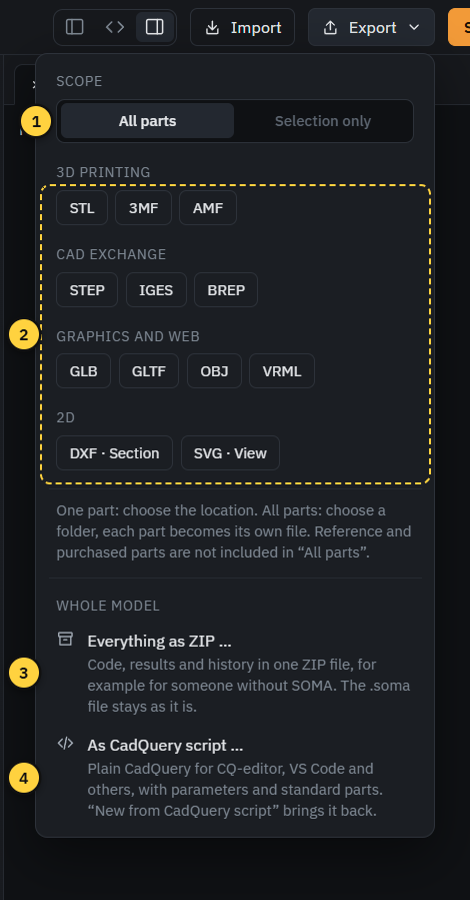
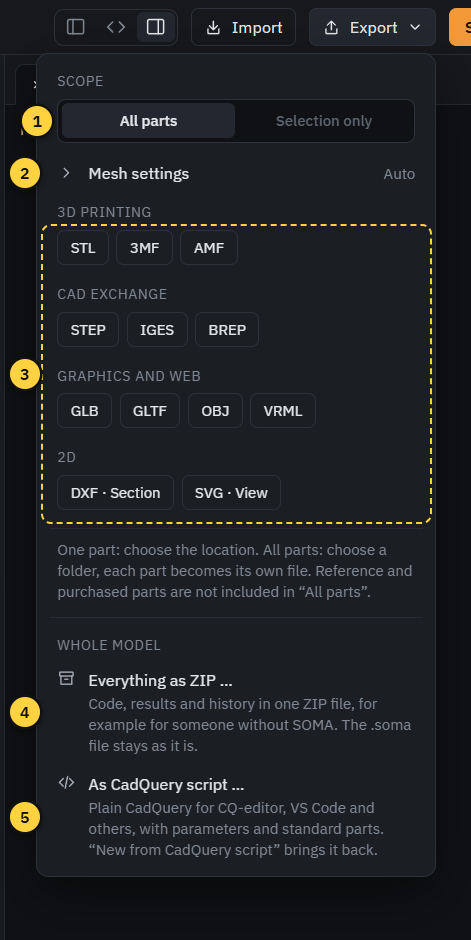
App: Netz-Einstellungen im Export-Menü, Warnungen des Exports anzeigen
Zugeklappte Zeile „Mesh settings“ mit Einheit, Achse und Detailstufe,
gemerkt im Fenster. Die warning-Zeilen von soma export erscheinen jetzt
in der Meldung nach dem Export. Hilfe, Vorlage AGENTS.md und Tests.

diff --git a/app/src/renderer/main.ts b/app/src/renderer/main.ts
@@ -1,6 +1,6 @@
 import { affectsBuild } from '../shared/editable';
 import { DEFAULT_SETTINGS, type SettingsPatch, type SettingsResult, type SettingsState } from '../shared/settings';
-import type { AgentInfo, AnimEntry, BuildStatus, CadQueryImportResult, DrawingEntry, DrawingList, ExportResult, FileNode, ImportResult, ModelMap, PartMap, PreviewResult, ProjectInfo, ProjectListEntry, ResultEntry, SaveState, UpdateInfo } from '../shared/types';
+import type { AgentInfo, AnimEntry, BuildStatus, CadQueryImportResult, DrawingEntry, DrawingList, ExportResult, FileNode, ImportResult, MeshExportOptions, ModelMap, PartMap, PreviewResult, ProjectInfo, ProjectListEntry, ResultEntry, SaveState, UpdateInfo } from '../shared/types';
 import { AnalysisPanel } from './analysispanel';
 import { AnimPanel, animKey, videoKey } from './animpanel';
 import { SOMA_VERSION } from '../shared/version';
@@ -1478,6 +1478,7 @@ function renderExportScope(): void {
 function openExportMenu(anchor: HTMLElement = $('btn-export')): void {
   renderExportScope();
   const m = $('menu-export');
+  if (!menus.isOpen(m)) setMeshOptsOpen(false);
   if (!menus.isOpen(m)) menus.toggle(m, anchor, anchor.id === 'btn-export' ? 'right' : 'left');
 }
 $('btn-export').addEventListener('click', () => {
@@ -1490,6 +1491,51 @@ $('btn-sel-export').addEventListener('click', () => {
   exportScope = 'sel';
   openExportMenu($('btn-sel-export'));
 });
+// Netz-Einstellungen (Issue #8): gemerkt in diesem Fenster, leer heißt die Vorgabe des Formats in `soma export`
+const MESH_OPTS_KEY = 'soma.exportMesh';
+let meshOpts: MeshExportOptions = (() => {
+  try {
+    const o = JSON.parse(store.get(MESH_OPTS_KEY) ?? '{}') as Record<string, unknown>;
+    return {
+      ...(o.units === 'mm' || o.units === 'm' ? { units: o.units } : {}),
+      ...(o.up === 'z' || o.up === 'y' ? { up: o.up } : {}),
+      ...(o.detail === 'coarse' || o.detail === 'fine' ? { detail: o.detail } : {}),
+    };
+  } catch { return {}; }
+})();
+const MESH_SEGS: [string, keyof MeshExportOptions, string][] = [['exp-units', 'units', ''], ['exp-up', 'up', ''], ['exp-detail', 'detail', 'normal']];
+function renderMeshOpts(): void {
+  for (const [id, key, dflt] of MESH_SEGS) {
+    const cur = meshOpts[key] ?? dflt;
+    for (const b of $(id).querySelectorAll<HTMLButtonElement>('button')) {
+      b.classList.toggle('on', b.dataset.v === cur);
+      b.setAttribute('aria-pressed', String(b.dataset.v === cur));
+    }
+  }
+  // Zugeklappt zeigt die Zeile, was vom Normalfall abweicht, damit eine Einstellung von früher nicht übersehen wird
+  const { units, up, detail } = meshOpts;
+  const sum = [units, up && `${up.toUpperCase()} up`, detail && detail[0].toUpperCase() + detail.slice(1)].filter(Boolean).join(' · ');
+  $('exp-mesh-sum').textContent = sum || 'Auto';
+}
+/** Netz-Einstellungen auf- oder zuklappen. Normalerweise braucht man sie nicht, deshalb startet das Menü zugeklappt. */
+function setMeshOptsOpen(open: boolean): void {
+  $('exp-mesh').hidden = !open;
+  $('exp-mesh-toggle').setAttribute('aria-expanded', String(open));
+}
+$('exp-mesh-toggle').addEventListener('click', () => setMeshOptsOpen($('exp-mesh').hidden));
+for (const [id, key, dflt] of MESH_SEGS) {
+  $(id).addEventListener('click', (ev) => {
+    const b = (ev.target as HTMLElement).closest<HTMLButtonElement>('button[data-v]');
+    if (!b) return;
+    const v = b.dataset.v ?? '';
+    const next: Record<string, string> = { ...meshOpts };
+    if (v && v !== dflt) next[key] = v; else delete next[key];
+    meshOpts = next as MeshExportOptions;
+    store.set(MESH_OPTS_KEY, JSON.stringify(meshOpts));
+    renderMeshOpts();
+  });
+}
+renderMeshOpts();
 $('exp-all').addEventListener('click', () => { exportScope = 'all'; renderExportScope(); });
 $('exp-sel').addEventListener('click', () => { exportScope = 'sel'; renderExportScope(); });
 document.querySelectorAll<HTMLButtonElement>('#menu-export [data-fmt]').forEach((b) => b.addEventListener('click', () => void doExport(b.dataset.fmt!, b.textContent!)));
@@ -1528,11 +1574,13 @@ async function doExport(fmt: string, label: string): Promise<ExportResult> {
   menus.close();
   const e = selection ? partEntry(selection.partId) : undefined;
   const part = exportScope === 'sel' ? e?.name ?? partInfo(selection?.partId ?? '')?.name ?? null : null;
-  const r = await api.build.export(fmt, part);
+  const r = await api.build.export(fmt, part, meshOpts);
   if (r.cancelled) return r;
   const name = (f: string) => f.split(/[\\/]/).pop() ?? f;
-  if (r.ok && part) toast(`“${part}” exported as ${label}:\n${r.target ?? r.files[0] ?? ''}`);
-  else if (r.ok) toast(`${r.files.length} file${r.files.length === 1 ? '' : 's'} exported as ${label} to ${r.target ?? ''}:\n${r.files.map(name).join(', ') || '(no file)'}`);
+  // Hinweise von soma (Netz nicht geschlossen, welche Flächen) gehören dazu: Bericht statt stiller Reparatur (E28)
+  const warn = r.warnings?.length ? `\n${r.warnings.join('\n')}` : '';
+  if (r.ok && part) toast(`“${part}” exported as ${label}:\n${r.target ?? r.files[0] ?? ''}${warn}`, warn ? 'error' : 'ok');
+  else if (r.ok) toast(`${r.files.length} file${r.files.length === 1 ? '' : 's'} exported as ${label} to ${r.target ?? ''}:\n${r.files.map(name).join(', ') || '(no file)'}${warn}`, warn ? 'error' : 'ok');
   else toast(`Export failed: ${r.error}`, 'error');
   return r;
 }

diff --git a/app/src/main/projects.ts b/app/src/main/projects.ts
@@ -3,7 +3,7 @@ import fs from 'node:fs';
 import os from 'node:os';
 import path from 'node:path';
 import type {
-  AnimBuildResult, AnimList, CadQueryImportResult, DrawingBuildResult, DrawingList, ExportResult, FileViewResult, GitLog, MeasureEntity, MeasurePrepared, MeasureRequest, MeasureResponse, ModelMap, OpenResult, PreviewResult,
+  AnimBuildResult, AnimList, CadQueryImportResult, DrawingBuildResult, DrawingList, ExportResult, FileViewResult, MeshExportOptions, GitLog, MeasureEntity, MeasurePrepared, MeasureRequest, MeasureResponse, ModelMap, OpenResult, PreviewResult,
   ParamResult, ParamState, ParamValue, ProjectInfo, RemoveResult, RenderResult, RestoreResult, ResultEntry, SaveResult, SaveState, SkillInfo, SkillResult,
 } from '../shared/types';
 import { affectsAnimation } from '../shared/editable';
@@ -73,6 +73,18 @@ function lastJson<T>(out: string): T | null {
 }
 const safeFileName = (n: string) => n.replace(/[<>:"/\\|?*\x00-\x1f]/g, '_').trim() || 'Model';
 /** Modelle werden als .soma gespeichert (E79), innen eine ZIP. Geöffnet wird auch eine .zip. */
+/** Netzformate, für die `soma export` Einheit, Achse und Detailstufe kennt (Issue #8) */
+const MESH_EXPORT_FORMATS = ['stl', '3mf', 'amf', 'obj', 'glb', 'gltf'];
+/** Einstellungen aus dem Renderer als Argumente für `soma export`. Was nicht passt, fällt weg: Dann gilt die Vorgabe des Formats. */
+function meshExportArgs(mesh: unknown): string[] {
+  const o = (mesh && typeof mesh === 'object' ? mesh : {}) as MeshExportOptions;
+  const out: string[] = [];
+  if (o.units === 'mm' || o.units === 'm') out.push('--units', o.units);
+  if (o.up === 'z' || o.up === 'y') out.push('--up', o.up);
+  if (o.detail === 'coarse' || o.detail === 'normal' || o.detail === 'fine') out.push('--detail', o.detail);
+  return out;
+}
+
 const MODEL_EXT = '.soma';
 const isModelFile = (p: string) => p.toLowerCase().endsWith(MODEL_EXT);
 /** Pfad mit .soma: „x“ und „x.zip“ werden „x.soma“. */
@@ -355,9 +367,10 @@ export class ProjectController {
    * Zukaufteile) als je eine Datei in einen gewählten Ordner. soma schreibt in einen leeren Ordner unter Temp, die App
    * kopiert danach. So landet nichts in exports/ des Projekts, und eine vorhandene Datei wird nie ohne Rückfrage ersetzt.
    */
-  async exportModel(format: string, part: string | null): Promise<ExportResult> {
+  async exportModel(format: string, part: string | null, mesh?: unknown): Promise<ExportResult> {
     const s = this.need();
     if (!/^[a-z0-9]{2,5}$/.test(format)) return { ok: false, files: [], error: `Unknown format: ${format}` };
+    const meshArgs = MESH_EXPORT_FORMATS.includes(format) ? meshExportArgs(mesh) : [];
     const last = getAppState(s.id).exportDir;
     const startDir = last && fs.existsSync(last) ? last : documentsDir();
     const target = await chooseExportTarget(this.getWin(), part
@@ -368,7 +381,7 @@ export class ProjectController {
     try {
       tmp = fs.mkdtempSync(path.join(os.tmpdir(), 'soma-export-'));
       // `--` vor dem Namen: Bauteilnamen dürfen mit einem Minus beginnen, ohne als Option zu gelten
-      const args = ['export', '--format', format, '--project', s.dir, '--out', tmp, ...(part ? ['--', part] : ['--all'])];
+      const args = ['export', '--format', format, ...meshArgs, '--project', s.dir, '--out', tmp, ...(part ? ['--', part] : ['--all'])];
       const r = await runSoma(args, s.dir, 10 * 60 * 1000);
       if (!r.ok) {
         const msg = (r.err || r.out).trim().split(/\r?\n/).slice(-3).join('\n');
@@ -400,7 +413,9 @@ export class ProjectController {
       }
       const dest = part ? plan[0][1] : target;
       patchAppState(s.id, { exportDir: part ? path.dirname(dest) : target });
-      return { ok: true, files: plan.map(([, d]) => d), target: dest };
+      // Hinweise von soma (z. B. ein Netz, das nicht geschlossen ist, mit den betroffenen Flächen) an den Benutzer weitergeben
+      const warnings = r.out.split(/\r?\n/).filter((l) => l.startsWith('warning: ')).map((l) => l.slice(9).trim());
+      return { ok: true, files: plan.map(([, d]) => d), target: dest, ...(warnings.length ? { warnings } : {}) };
     } catch (e) {
       return { ok: false, files: [], error: `Export failed: ${e instanceof Error ? e.message : String(e)}` };
     } finally {

diff --git a/app/src/renderer/index.html b/app/src/renderer/index.html
@@ -458,6 +458,15 @@
   <div id="menu-export" class="menu wide" role="menu" hidden>
     <div class="mh">SCOPE</div>
     <div class="seg"><button id="exp-all" class="on" aria-pressed="true">All parts</button><button id="exp-sel" aria-pressed="false" disabled>Selection only</button></div>
+    <button id="exp-mesh-toggle" class="mi keep meshtoggle" aria-expanded="false" aria-controls="exp-mesh" title="Units, up axis and mesh density for STL, 3MF, AMF, OBJ, GLB and GLTF"><i data-icon="right" data-size="14" data-stroke="2"></i><span>Mesh settings</span><span id="exp-mesh-sum" class="k">Auto</span></button>
+    <div id="exp-mesh" hidden>
+    <div class="expopts">
+      <span>Units</span><div id="exp-units" class="seg" aria-label="Units of mesh files"><button data-v="" title="GLB and GLTF in meters, the other formats in millimeters">Auto</button><button data-v="mm">mm</button><button data-v="m">m</button></div>
+      <span>Up</span><div id="exp-up" class="seg" aria-label="Axis pointing up in mesh files"><button data-v="" title="GLB and GLTF with Y up, the other formats with Z up as in the model">Auto</button><button data-v="z">Z</button><button data-v="y">Y</button></div>
+      <span>Detail</span><div id="exp-detail" class="seg" aria-label="Mesh density"><button data-v="coarse" title="Fewer triangles, for example for game engines">Coarse</button><button data-v="normal">Normal</button><button data-v="fine" title="More triangles, smoother curves">Fine</button></div>
+    </div>
+    <div class="mnote">For STL, 3MF, AMF, OBJ, GLB and GLTF. Auto: GLB and GLTF in meters with Y up, as game engines and Blender expect them, the others in millimeters with Z up.</div>
+    </div>
     <div class="mh">3D PRINTING</div>
     <div class="chips"><button class="chip" data-fmt="stl">STL</button><button class="chip" data-fmt="3mf">3MF</button><button class="chip" data-fmt="amf">AMF</button></div>
     <div class="mh">CAD EXCHANGE</div>

diff --git a/app/src/shared/types.ts b/app/src/shared/types.ts
@@ -73,6 +73,12 @@ export interface BuildStatus {
  * Export über einen Dateidialog. `files`: geschriebene Dateien mit absolutem Pfad, `target`: gewählte Datei oder gewählter
  * Ordner. `cancelled`: Dialog oder Rückfrage abgebrochen, nichts geschrieben.
  */
+/**
+ * Einstellungen für Netzformate (STL, 3MF, AMF, OBJ, GLB, GLTF) beim Export, Issue #8. Fehlt ein Wert, gilt die Vorgabe des
+ * Formats in `soma export`: GLB/GLTF in Metern mit Y nach oben, alles andere in mm mit Z nach oben.
+ */
+export interface MeshExportOptions { units?: 'mm' | 'm'; up?: 'z' | 'y'; detail?: 'coarse' | 'normal' | 'fine' }
+
 export interface ExportResult { ok: boolean; files: string[]; target?: string; cancelled?: boolean; error?: string; warnings?: string[] }
 /** Neues Modell aus einem CadQuery-Skript (E100). `info`: das geöffnete Modell, `warnings`: Hinweise des Imports. */
 export interface CadQueryImportResult { info?: ProjectInfo; warnings: string[]; cancelled?: boolean; error?: string }
@@ -482,8 +488,8 @@ export interface SomaApi {
     setAuto(on: boolean): Promise<void>;
     status(): Promise<BuildStatus>;
     onStatus(cb: (s: BuildStatus) => void): void;
-    /** `part` null = alle Bauteile ohne Referenzen. */
-    export(format: string, part: string | null): Promise<ExportResult>;
+    /** `part` null = alle Bauteile ohne Referenzen. `mesh` gilt nur für Netzformate, bei anderen ignoriert. */
+    export(format: string, part: string | null, mesh?: MeshExportOptions): Promise<ExportResult>;
   };
   fs: {
     list(): Promise<FileNode[]>;

diff --git a/app/src/renderer/style.css b/app/src/renderer/style.css
@@ -949,6 +949,14 @@ code { font-family:var(--mono); font-size:.95em; }
 .seg { display:flex; margin:2px 10px 8px; border:1px solid var(--line2); border-radius:7px; overflow:hidden; }
 .seg button { flex:1; height:28px; font-size:12px; color:var(--tx2); padding:0 8px; white-space:nowrap; overflow:hidden; text-overflow:ellipsis; }
 .seg button.on { background:var(--s3); color:var(--tx); font-weight:500; }
+/* Netz-Einstellungen im Export-Menü: zugeklappt nur eine Zeile mit Zusammenfassung, aufgeklappt Beschriftung links,
+   Umschalter rechts */
+.meshtoggle > svg.ic { transition:transform .15s; }
+.meshtoggle[aria-expanded=true] > svg.ic { transform:rotate(90deg); }
+.expopts { display:grid; grid-template-columns:auto 1fr; align-items:center; gap:4px 10px; padding:0 10px 4px; }
+.expopts > span { color:var(--tx2); font-size:12px; }
+.expopts .seg { margin:0; }
+.expopts .seg button { height:22px; font-size:12px; }
 .seg button:disabled { color:#5d6671; }
 .chips { display:flex; flex-wrap:wrap; gap:6px; padding:2px 10px 8px; }
 .chip { height:28px; padding:0 10px; border:1px solid var(--line2); border-radius:6px; font-size:12px; }

diff --git a/app/src/main/main.ts b/app/src/main/main.ts
@@ -110,7 +110,7 @@ function registerIpc(ctl: ProjectController): void {
   ipcMain.handle('build:cancel', () => ctl.need().builds.cancel());
   ipcMain.handle('build:setAuto', (_e, on: boolean) => ctl.need().builds.setAuto(!!on));
   ipcMain.handle('build:status', () => ctl.need().builds.status);
-  ipcMain.handle('build:export', (_e, format: string, part: string | null) => ctl.exportModel(String(format), part ? String(part) : null));
+  ipcMain.handle('build:export', (_e, format: string, part: string | null, mesh: unknown) => ctl.exportModel(String(format), part ? String(part) : null, mesh));
 
   ipcMain.handle('fs:list', () => listFiles(dir()));
   ipcMain.handle('fs:import', (_e, paths: string[]) => importInputs(dir(), Array.isArray(paths) ? paths.map(String) : []));

diff --git a/app/src/preload/preload.ts b/app/src/preload/preload.ts
@@ -39,7 +39,7 @@ const api: SomaApi = {
     setAuto: (on) => ipcRenderer.invoke('build:setAuto', on),
     status: () => ipcRenderer.invoke('build:status'),
     onStatus: (cb) => { ipcRenderer.on('build:status', (_e, s) => cb(s)); },
-    export: (format, part) => ipcRenderer.invoke('build:export', format, part),
+    export: (format, part, mesh) => ipcRenderer.invoke('build:export', format, part, mesh ?? null),
   },
   fs: {
     list: () => ipcRenderer.invoke('fs:list'),

diff --git a/app/resources/skills/soma-app.md b/app/resources/skills/soma-app.md
@@ -198,9 +198,12 @@ after that Ctrl S saves to the same file. Copy or send the file like any other d
 ![The export menu](../help/export.png)
 
 1. **Scope**: all parts, or only the selected one.
-2. **Formats**: for 3D printing (STL, 3MF), CAD (STEP, IGES), graphics and 2D (DXF, SVG). All parts become one file per part in a folder you choose.
-3. **Everything as ZIP**: the whole model with code, results and history, for someone without SOMA.
-4. **As CadQuery script**: the model as plain CadQuery for CQ-editor, VS Code with ocp_vscode and other tools, without SOMA.
+2. **Mesh settings**: closed by default, click to open. Units, the axis pointing up and the mesh density for STL, 3MF, AMF, OBJ, GLB and GLTF. "Auto" writes GLB and GLTF in meters with Y up, as game engines (Unity, Unreal, Godot) and Blender expect them, and the other formats in millimeters with Z up, as slicers expect them. "Coarse" gives fewer triangles, for example for a game, "Fine" smoother curves. The settings are remembered, and the closed row shows what differs from Auto.
+3. **Formats**: for 3D printing (STL, 3MF), CAD (STEP, IGES), graphics and 2D (DXF, SVG). All parts become one file per part in a folder you choose.
+4. **Everything as ZIP**: the whole model with code, results and history, for someone without SOMA.
+5. **As CadQuery script**: the model as plain CadQuery for CQ-editor, VS Code with ocp_vscode and other tools, without SOMA.
+
+If a mesh is not closed, the message after the export says why, for example which faces could not be meshed and where they are.
 
 Reference parts (for example an imported circuit board) are not included in "All parts".
 

diff --git a/app/resources/template/AGENTS.md b/app/resources/template/AGENTS.md
@@ -41,6 +41,7 @@ Run them in this terminal. They work without the app.
 | `soma build` | Runs `model.py`, writes `output/model.step` and the viewer cache. **Run it after every change and read the result.** On errors it prints the file, line and message |
 | `soma export <Part> --format stl` | Exports one part (formats: step, stl, 3mf, amf, brep, iges, obj, vrml, glb, gltf, dxf, svg) |
 | `soma export --all --format step` | Exports all parts except references |
+| `soma export <Part> --format glb --detail coarse` | Mesh formats (stl, 3mf, amf, obj, glb, gltf) take `--units mm\|cm\|m\|in`, `--up z\|y`, `--detail coarse\|normal\|fine` or `--tolerance <mm>`. Default: glb/gltf in m with Y up (game engines, Blender), the others in mm with Z up |
 | `soma render` | Saves a picture of the current model to `renders/view-iso.png` (`--view top` or a direction `--view=1,-2,1`, `--hide`/`--only` parts or groups, `--fit` parts, `--zoom 2`, `--size 1280x800`, `--out`). **Open the picture and look at it** to check your work, also inside: hide what is in the way. Needs the app with this model open, it renders with the app's viewer |
 | `soma analyze overhang` (or `thickness`, `clearance`) | Value at every spot of the surface with a summary per part. Details in the skill for analysis |
 | `soma analyze fem analyses/x.py` | Stresses, safety and deflection under a load case described in `analyses/x.py`. Details in the skill for FEM |
